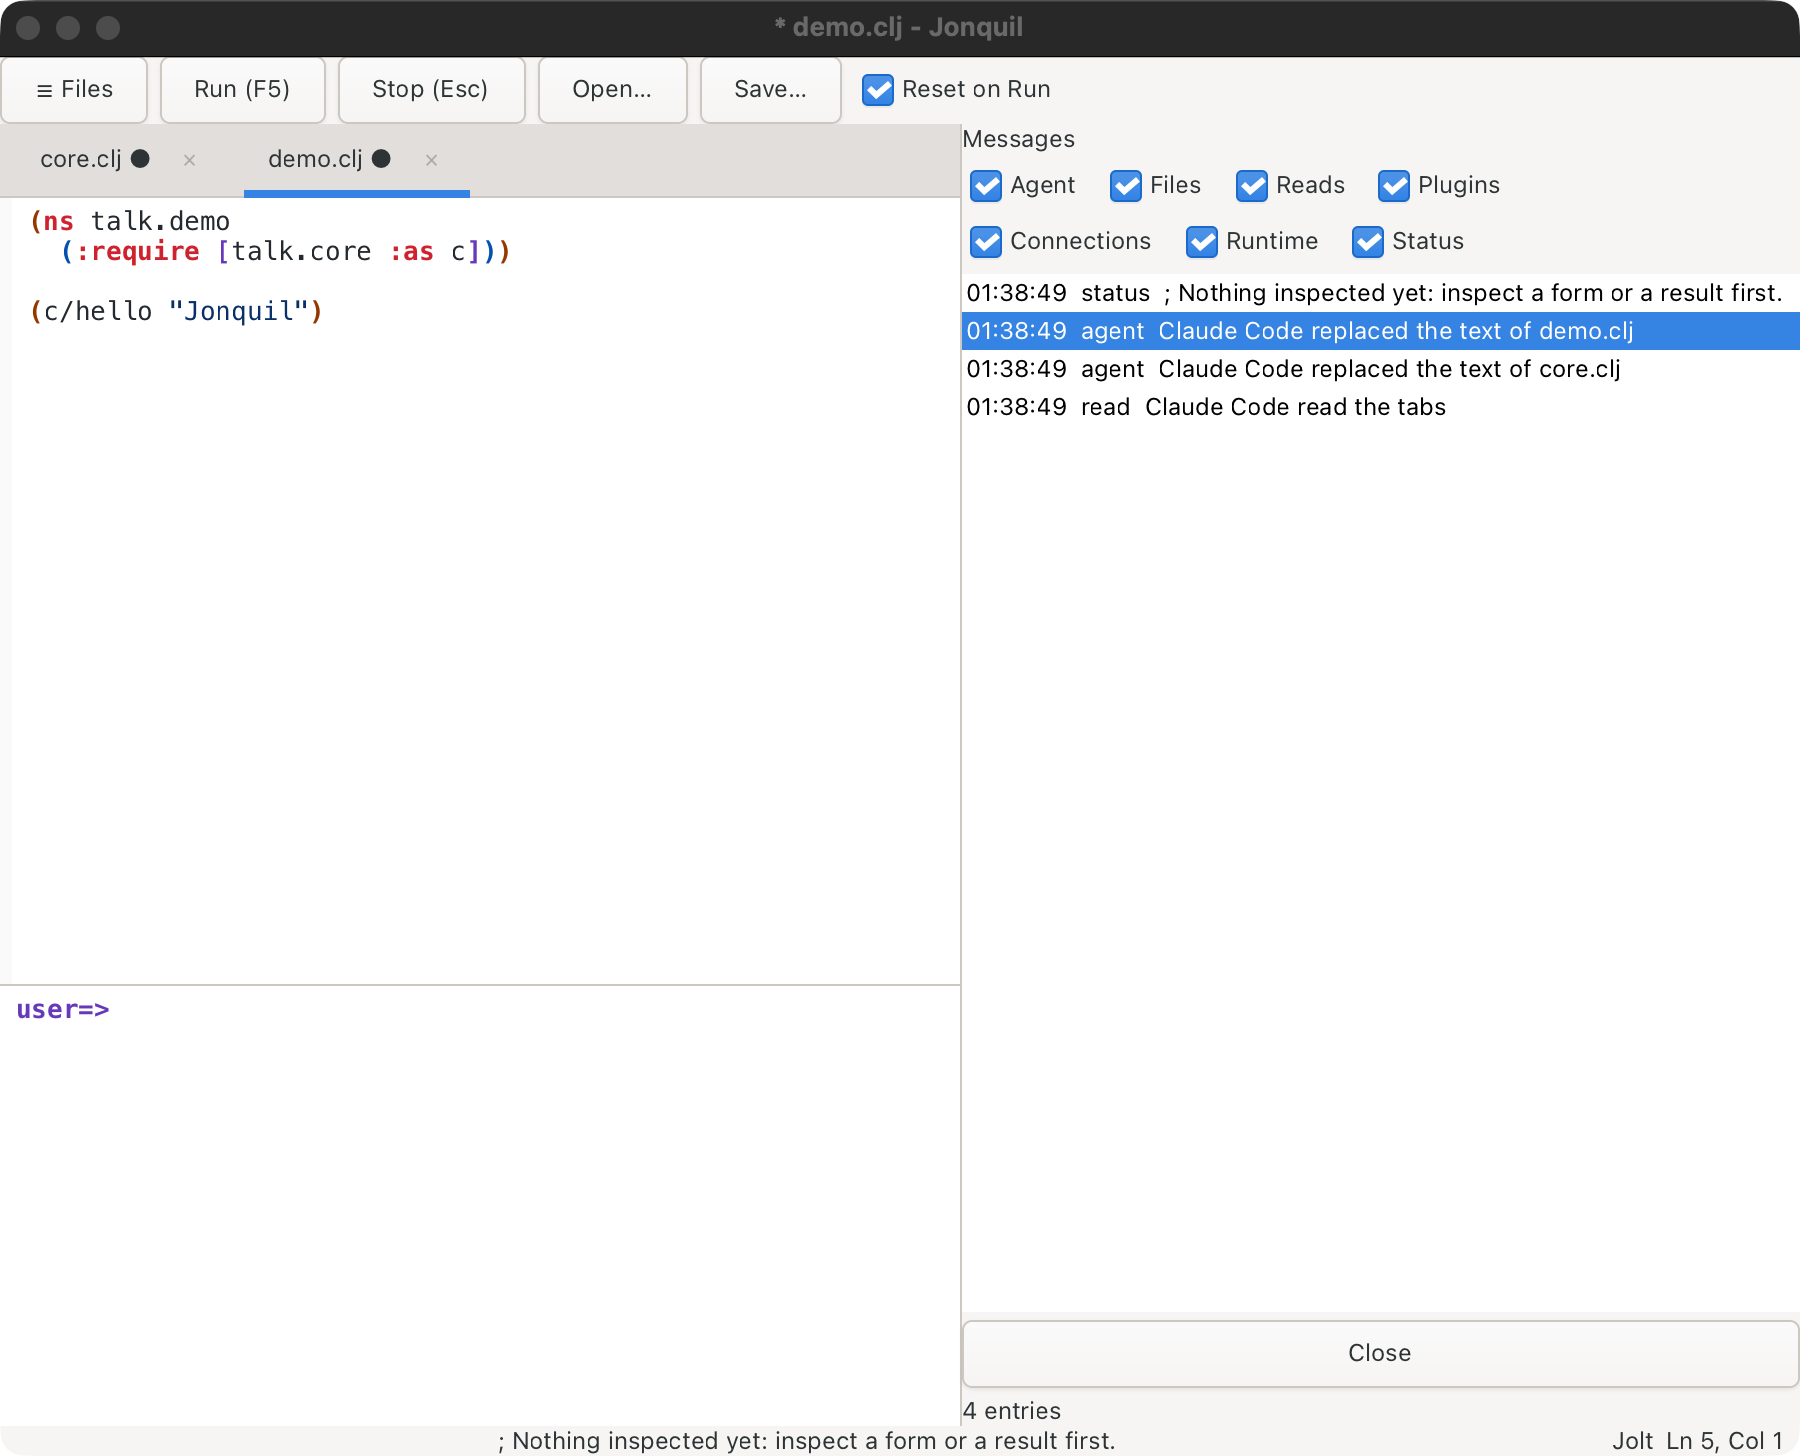
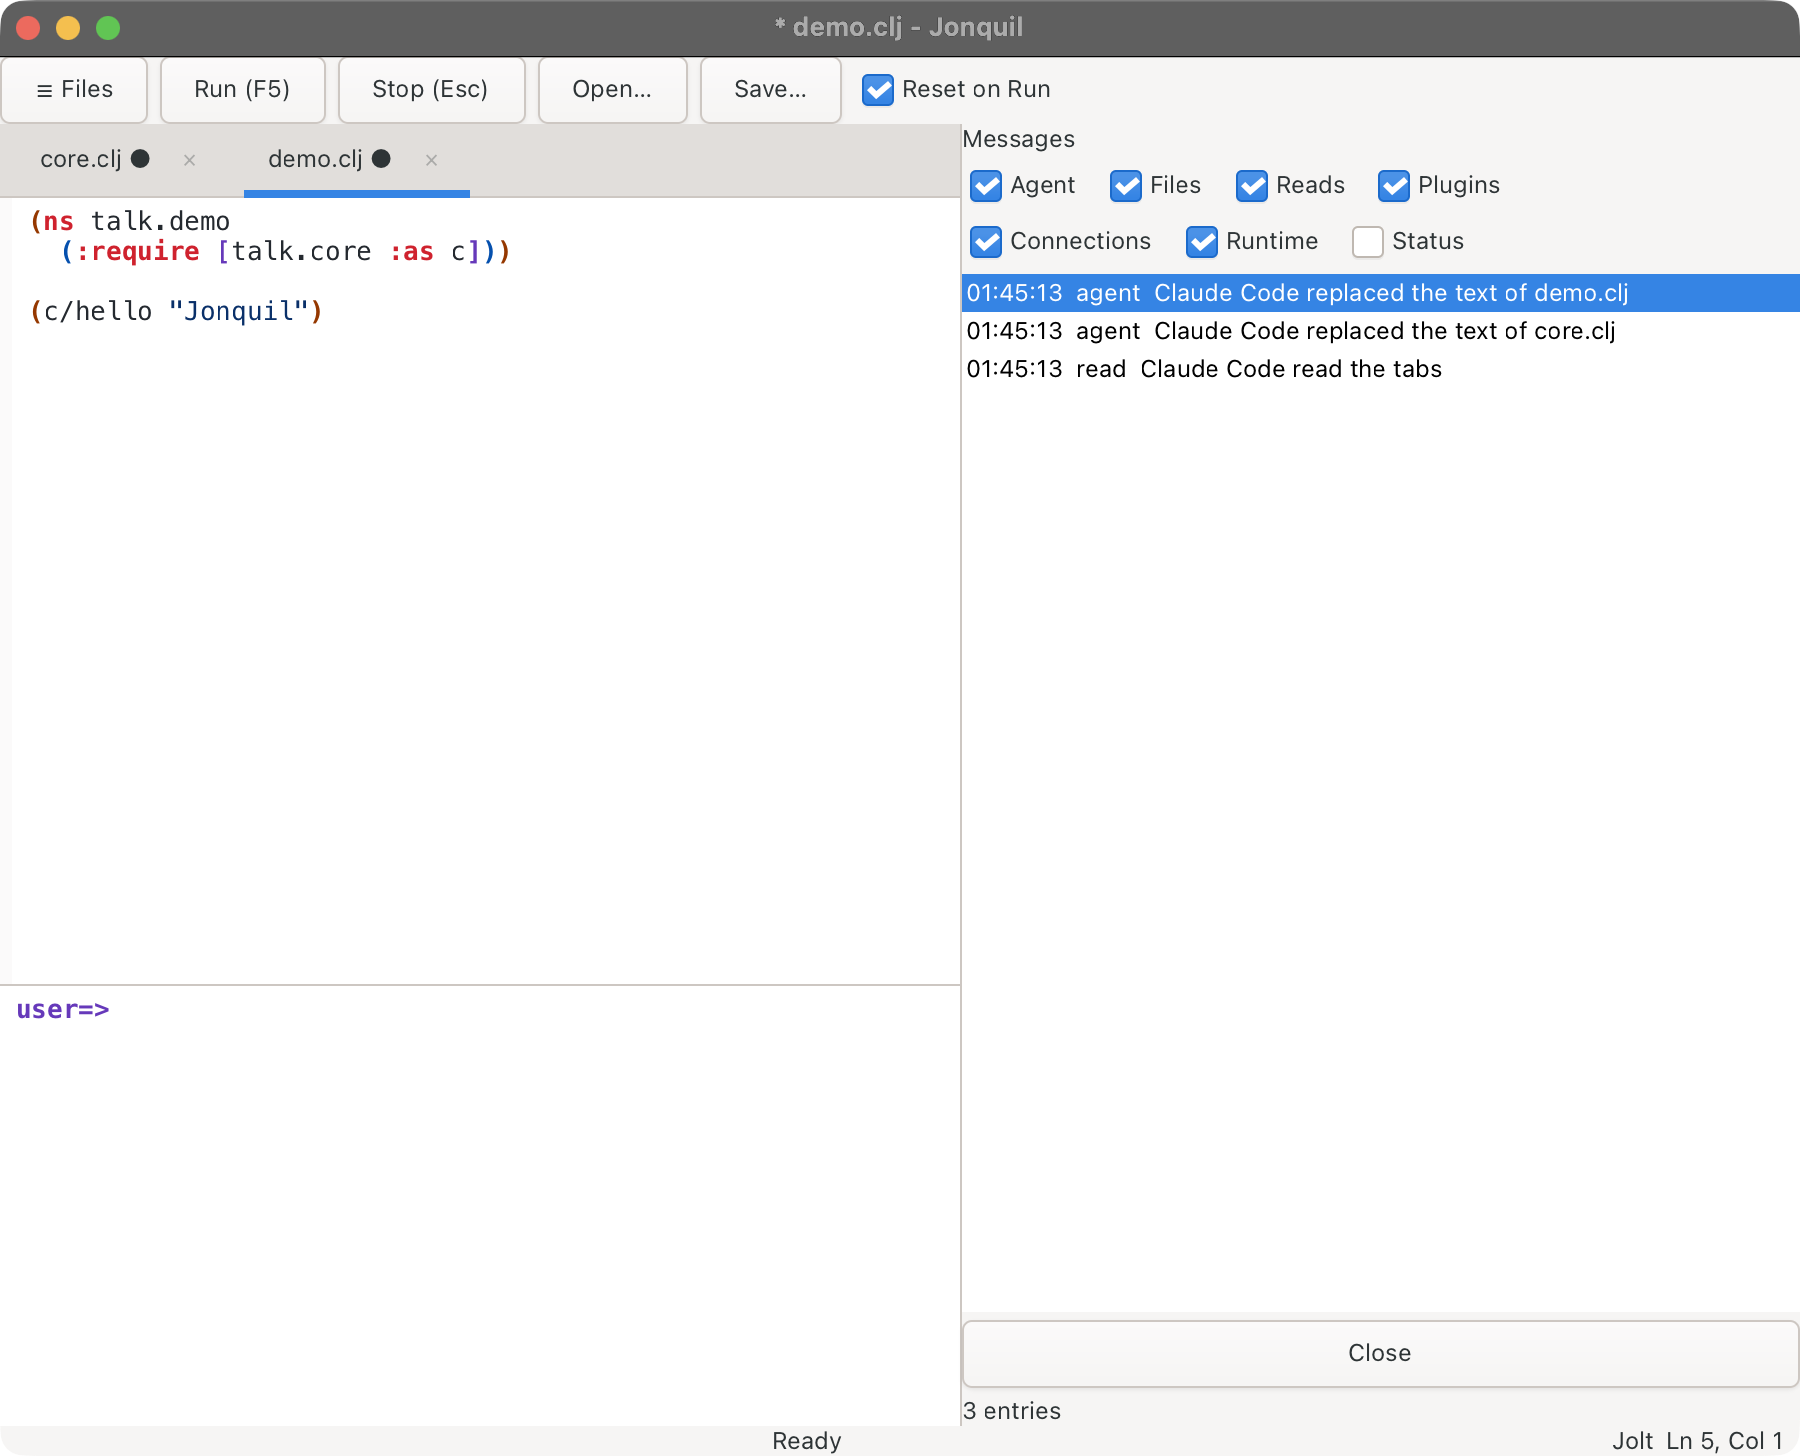
docs: processes and messages shots show only what they explain
The worker defn is spread over short lines so it fits left of the panel, and
the Messages shot no longer opens with a stray status row.

Changed region(s): [[0.0, 0.0, 1.0, 0.0618], [0.5289, 0.1545, 1.0, 0.3091], [0.28, 0.9581, 0.6222, 1.0]]

diff --git a/docs/guide/help-and-inspector.md b/docs/guide/help-and-inspector.md
@@ -175,7 +175,7 @@ their own tools, which Jonquil never sees. The panel also logs an agent
 attaching or leaving, an attached runtime losing its connection, and a
 runtime starting or failing to start.
 
-![The Messages panel with four rows: a status line, two agent rows where Claude Code replaced the text of demo.clj and core.clj, and a read row for the tab list](../images/messages.png)
+![The Messages panel with three rows: two agent rows where Claude Code replaced the text of demo.clj and core.clj, and a read row for the tab list](../images/messages.png)
 
 The tick boxes above the list choose what shows. Agent, Files, Plugins,
 Connections and Runtime are on to begin with. Reads (an agent reading a tab,
@@ -452,7 +452,7 @@ holds off until it ends, and **Kill** ends it outright. **Forget finished**
 drops the done and dead ones; Jonquil keeps the last 50 of those anyway.
 While the panel shows, it refreshes every second.
 
-![The Processes panel listing three fibers a Run spawned: two ready workers and one that is done, with Interrupt, Kill, Forget finished and Close](../images/processes.png)
+![The Processes panel listing three fibers a Run spawned: two workers, one running and one ready, and one fiber that is done, with Interrupt, Kill, Forget finished and Close](../images/processes.png)
 
 Jolt keeps no list of live fibers (jolt-lang/jolt#1606 asks for one), so
 the first time the panel opens Jonquil starts watching `spawn`, the way
